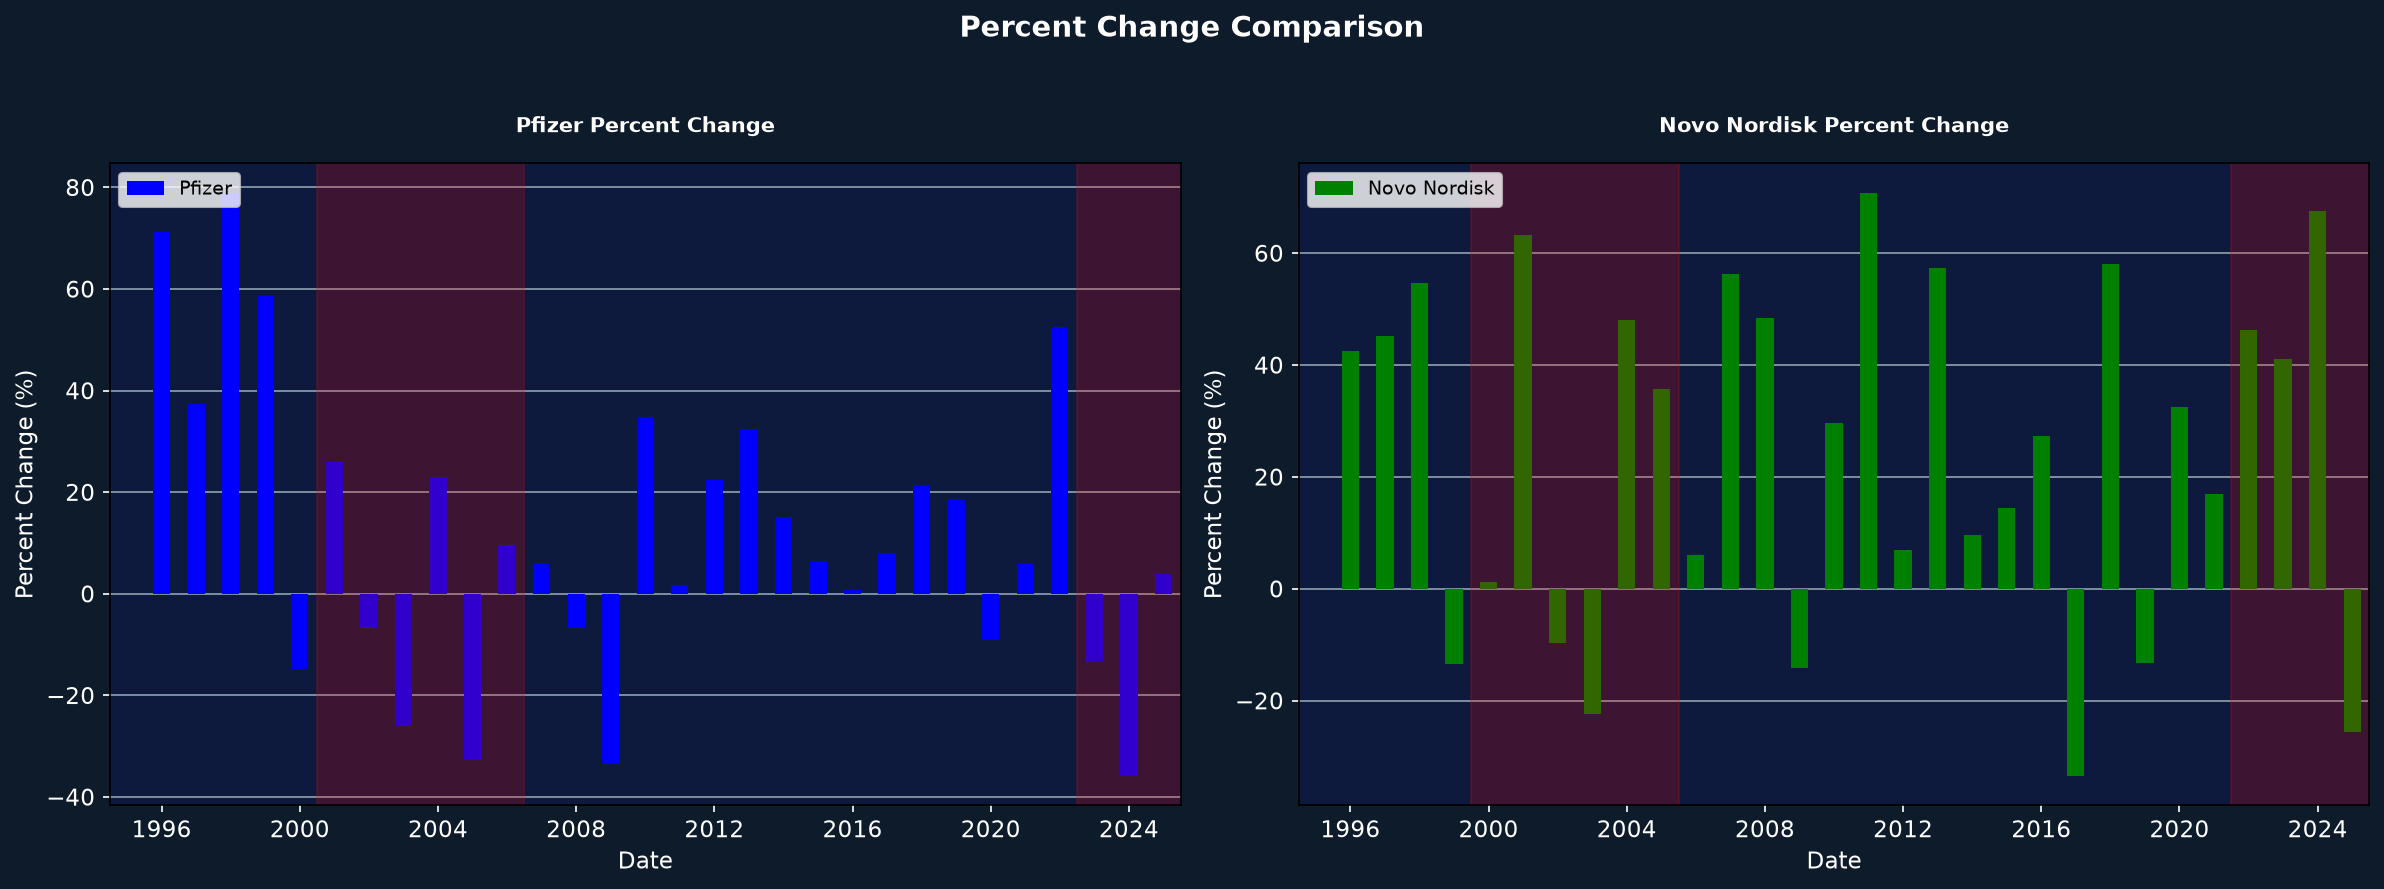
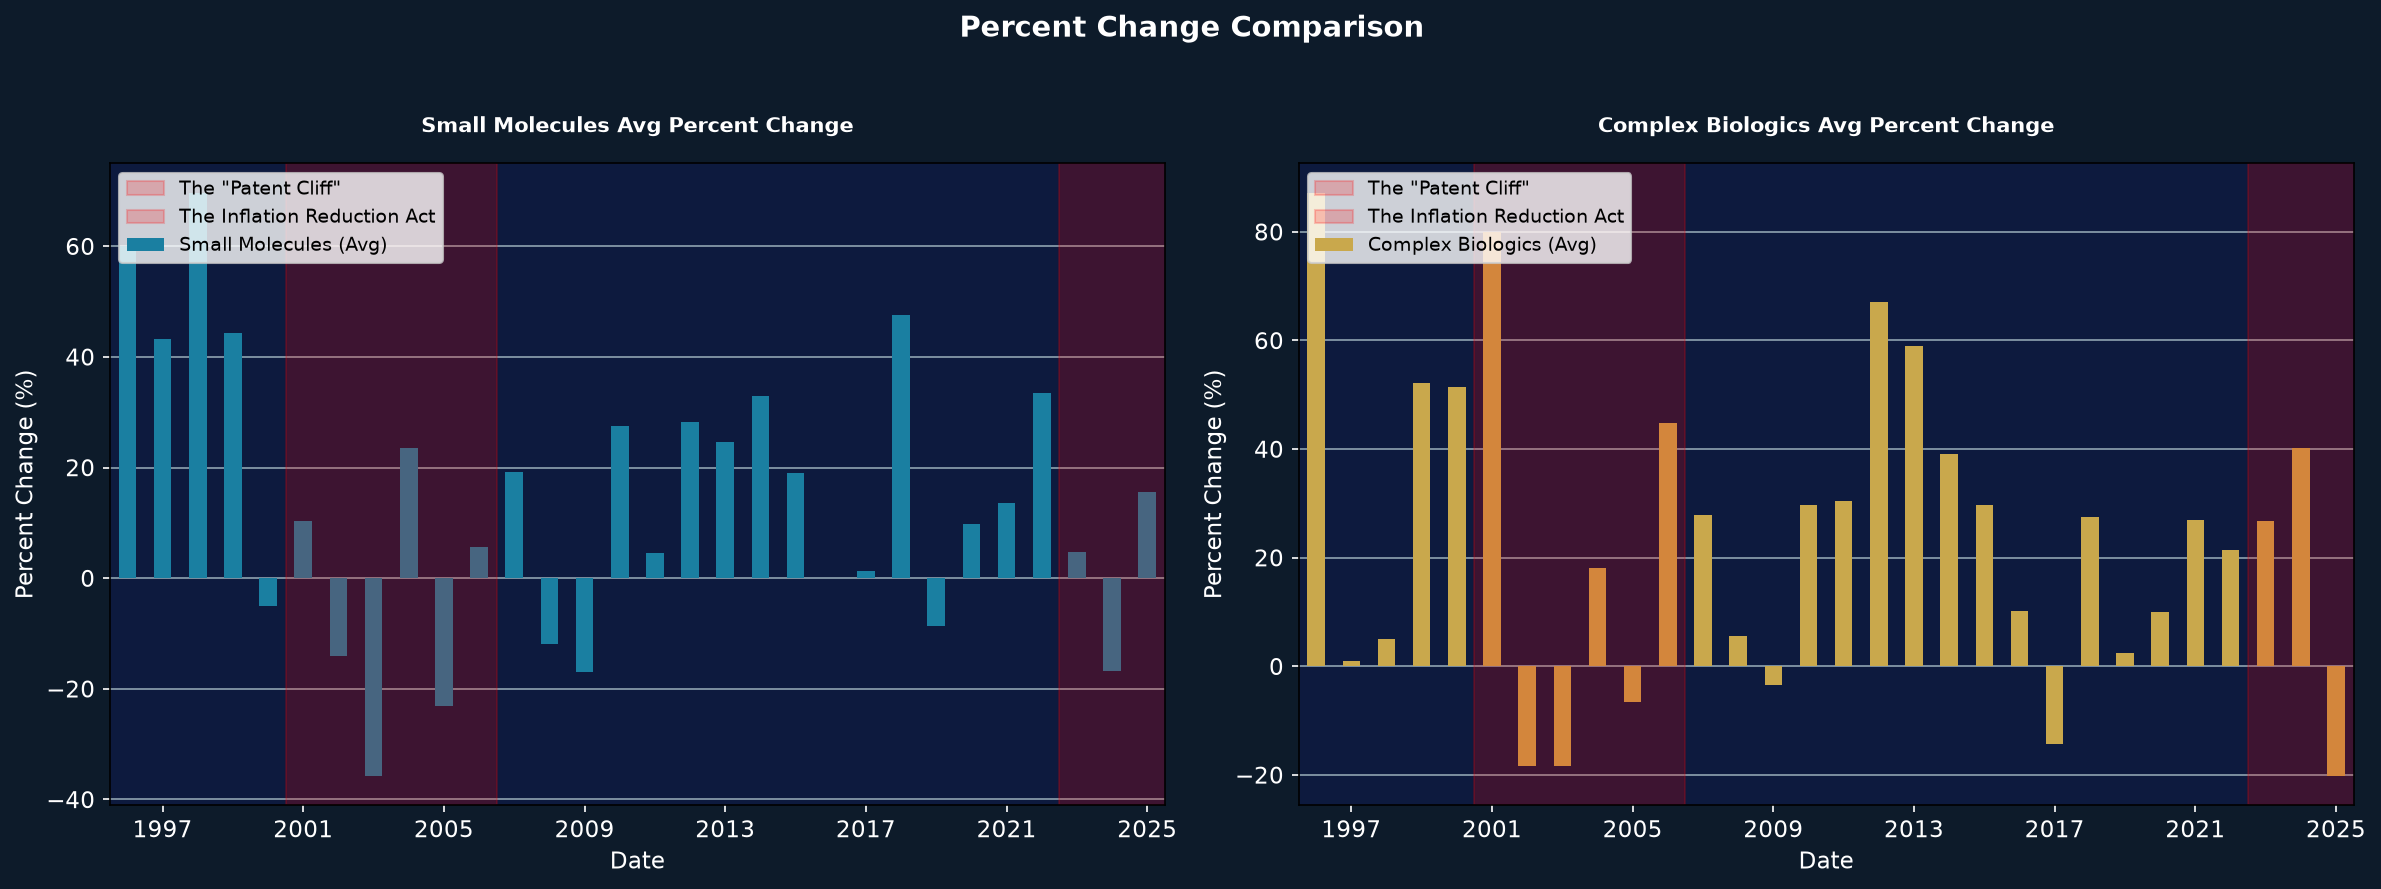
Really just needs a summary doc now

diff --git a/test2.py b/test2.py
@@ -72,74 +72,95 @@ def small_molecule_graph():
     #plt.show()
 
 
-def percent_change_graph():
-    # Load data for Bristol-Myers Squibb (BMY)
-    pfizer = yf.Ticker("PFE")
-    pfizer_monthly_data = pfizer.history(start="1995-01-01", end="2026-01-01", interval="1mo")
-    pfizer_yearly = pfizer_monthly_data[pfizer_monthly_data.index.month == 1].copy()
-    pfizer_yearly["Percent_change"] = pfizer_yearly["Close"].pct_change() * 100
-    pfizer_clean = pfizer_yearly.reset_index()
-    pfizer_clean['Date'] = pfizer_clean['Date'].dt.strftime('%Y')
+def get_subsector_pct_change(tickers):
+    pct_changes = {}
+    for ticker in tickers:
+        t = yf.Ticker(ticker)
+        df = t.history(start="1995-01-01", end="2026-01-01", interval="1mo")
+        if not df.empty:
+            df.index = df.index.tz_localize(None)
+            jan_data = df[df.index.month == 1].copy()
+            jan_data["Percent_change"] = jan_data["Close"].pct_change() * 100
+            jan_data.index = jan_data.index.strftime('%Y')
+            pct_changes[ticker] = jan_data["Percent_change"]
+            
+    pct_df = pd.DataFrame(pct_changes)
+    avg_change = pct_df.mean(axis=1)
+    
+    clean_df = avg_change.reset_index()
+    clean_df.columns = ['Date', 'Percent_change']
+    clean_df = clean_df.dropna(subset=['Percent_change']).reset_index(drop=True)
+    return clean_df
 
-    # Load data for Novo Nordisk (NVO)
-    novo_nordisk = yf.Ticker("NVO")
-    nn_monthly_data = novo_nordisk.history(start="1995-01-01", end="2026-01-01", interval="1mo")
-    nn_yearly = nn_monthly_data[nn_monthly_data.index.month == 1].copy()
-    nn_yearly["Percent_change"] = nn_yearly["Close"].pct_change() * 100
-    nn_clean = nn_yearly.reset_index()
-    nn_clean['Date'] = nn_clean['Date'].dt.strftime('%Y')
+def percent_change_graph():
+    # Load subsector baskets
+    small_molecule_tickers = ["BMY", "PFE", "ABBV"]
+    complex_biologics_tickers = ["AMGN", "REGN", "NVO"]
+    
+    sm_clean = get_subsector_pct_change(small_molecule_tickers)
+    cb_clean = get_subsector_pct_change(complex_biologics_tickers)
 
     # Create figure and 2 side-by-side subplots
     fig, (ax1, ax2) = plt.subplots(1, 2, figsize=(16, 6), facecolor=NAVY)
     
-    # --- Plot 1: Pfizer ---
-    pfizer_clean.plot.bar(x='Date', y='Percent_change', color='blue', label="Pfizer", ax=ax1)
-    #print(pfizer_clean.tail(10))
+    # Helper to find year index
+    def get_year_idx(df, year_str):
+        indices = df[df['Date'] == year_str].index
+        if len(indices) > 0:
+            return indices[0]
+        return None
+
+    # --- Plot 1: Small Molecules ---
+    sm_clean.plot.bar(x='Date', y='Percent_change', color=TEAL, label="Small Molecules (Avg)", ax=ax1)
     # Visual config for subplot 1
     ax1.grid(axis='y', linestyle='-', alpha=1.0, color=SLATE)
     ax1.set_axisbelow(True)
-    ax1.legend(loc='upper left', framealpha=0.8, fontsize=9)
-    ax1.set_title("Pfizer Percent Change", fontsize=10, fontweight='bold', pad=15, color='white')
+    ax1.set_title("Small Molecules Avg Percent Change", fontsize=10, fontweight='bold', pad=15, color='white')
     ax1.tick_params(axis='both', colors='white', labelsize=11)
-    ax1.set_xticks(range(1, len(pfizer_clean), 4))
-    ax1.set_xticklabels(pfizer_clean['Date'].iloc[1::4], rotation=0)
+    ax1.set_xticks(range(1, len(sm_clean), 4))
+    ax1.set_xticklabels(sm_clean['Date'].iloc[1::4], rotation=0)
     ax1.set_facecolor(navy_opaque)
     ax1.set_xlabel("Date", color='white', fontsize=11)
     ax1.set_ylabel("Percent Change (%)", color='white', fontsize=11)
 
     # Highlights for subplot 1
-    idx_2000_1 = pfizer_clean[pfizer_clean['Date'] == '2000'].index[0]
-    idx_2005_1 = pfizer_clean[pfizer_clean['Date'] == '2005'].index[0]
-    ax1.axvspan(idx_2000_1 + 0.5, idx_2005_1 + 1.5, color='red', alpha=0.2, label='The "Patent Cliff"')
+    idx_2000_1 = get_year_idx(sm_clean, '2000')
+    idx_2005_1 = get_year_idx(sm_clean, '2005')
+    if idx_2000_1 is not None and idx_2005_1 is not None:
+        ax1.axvspan(idx_2000_1 + 0.5, idx_2005_1 + 1.5, color='red', alpha=0.2, label='The "Patent Cliff"')
 
-    idx_2022_1 = pfizer_clean[pfizer_clean['Date'] == '2022'].index[0]
-    idx_2025_1 = pfizer_clean[pfizer_clean['Date'] == '2025'].index[0]
-    ax1.axvspan(idx_2022_1 + 0.5, idx_2025_1 + 1.5, color='red', alpha=0.2, label='The Inflation Reduction Act')
+    idx_2022_1 = get_year_idx(sm_clean, '2022')
+    idx_2025_1 = get_year_idx(sm_clean, '2025')
+    if idx_2022_1 is not None and idx_2025_1 is not None:
+        ax1.axvspan(idx_2022_1 + 0.5, idx_2025_1 + 1.5, color='red', alpha=0.2, label='The Inflation Reduction Act')
+    ax1.legend(loc='upper left', framealpha=0.8, fontsize=9)
 
-
-    # --- Plot 2: Novo Nordisk ---
-    nn_clean.plot.bar(x='Date', y='Percent_change', color='green', label="Novo Nordisk", ax=ax2)
+    # --- Plot 2: Complex Biologics ---
+    cb_clean.plot.bar(x='Date', y='Percent_change', color=GOLD, label="Complex Biologics (Avg)", ax=ax2)
 
     # Visual config for subplot 2
     ax2.grid(axis='y', linestyle='-', alpha=1.0, color=SLATE)
     ax2.set_axisbelow(True)
-    ax2.legend(loc='upper left', framealpha=0.8, fontsize=9)
-    ax2.set_title("Novo Nordisk Percent Change", fontsize=10, fontweight='bold', pad=15, color='white')
+    ax2.set_title("Complex Biologics Avg Percent Change", fontsize=10, fontweight='bold', pad=15, color='white')
     ax2.tick_params(axis='both', colors='white', labelsize=11)
-    ax2.set_xticks(range(1, len(nn_clean), 4))
-    ax2.set_xticklabels(nn_clean['Date'].iloc[1::4], rotation=0)
+    ax2.set_xticks(range(1, len(cb_clean), 4))
+    ax2.set_xticklabels(cb_clean['Date'].iloc[1::4], rotation=0)
     ax2.set_facecolor(navy_opaque)
     ax2.set_xlabel("Date", color='white', fontsize=11)
     ax2.set_ylabel("Percent Change (%)", color='white', fontsize=11)
 
     # Highlights for subplot 2
-    idx_2000_2 = nn_clean[nn_clean['Date'] == '2000'].index[0]
-    idx_2005_2 = nn_clean[nn_clean['Date'] == '2005'].index[0]
-    ax2.axvspan(idx_2000_2 - 0.5, idx_2005_2 + 0.5, color='red', alpha=0.2, label='The "Patent Cliff"')
+    idx_2000_2 = get_year_idx(cb_clean, '2000')
+    idx_2005_2 = get_year_idx(cb_clean, '2005')
+    if idx_2000_2 is not None and idx_2005_2 is not None:
+        ax2.axvspan(idx_2000_2 + 0.5, idx_2005_2 + 1.5, color='red', alpha=0.2, label='The "Patent Cliff"')
 
-    idx_2022_2 = nn_clean[nn_clean['Date'] == '2022'].index[0]
-    idx_2025_2 = nn_clean[nn_clean['Date'] == '2025'].index[0]
-    ax2.axvspan(idx_2022_2 - 0.5, idx_2025_2 + 0.5, color='red', alpha=0.2, label='The Inflation Reduction Act')
+    idx_2022_2 = get_year_idx(cb_clean, '2022')
+    idx_2025_2 = get_year_idx(cb_clean, '2025')
+    if idx_2022_2 is not None and idx_2025_2 is not None:
+        ax2.axvspan(idx_2022_2 + 0.5, idx_2025_2 + 1.5, color='red', alpha=0.2, label='The Inflation Reduction Act')
+    ax2.legend(loc='upper left', framealpha=0.8, fontsize=9)
+
     fig.suptitle("Percent Change Comparison", fontsize=14, fontweight='bold', color='white')
     plt.tight_layout(rect=[0, 0, 1, 0.95])
     plt.savefig('charts/percent_change_bar.png', dpi=150, bbox_inches="tight")
@@ -188,14 +209,100 @@ def complex_biologics_graph():
 
     plt.tight_layout()
     plt.savefig('charts/complex_biologics.png', dpi=150, bbox_inches="tight")
-    plt.show() 
+    # plt.show() 
+
+def create_correlation_graph():
+    tickers = ["BMY", "PFE", "ABBV", "AMGN", "REGN", "NVO"]
+    
+    data = {}
+    for ticker in tickers:
+        t = yf.Ticker(ticker)
+        df = t.history(start="2000-01-01", end="2026-01-01", interval="1mo")
+        if not df.empty:
+            data[ticker] = df["Close"]
+            
+    price_df = pd.DataFrame(data)
+    if price_df.empty:
+        print("Error: No price data downloaded.")
+        return
+        
+    price_df.index = price_df.index.tz_localize(None)
+    
+    # Period 1: Patent Cliff (2000-01-01 to 2005-12-31)
+    p1_df = price_df.loc["2000-01-01":"2005-12-31"].copy()
+    p1_df.dropna(how='all', axis=1, inplace=True)
+    
+    p1_norm = p1_df.copy()
+    for col in p1_norm.columns:
+        first_val = p1_norm[col].dropna()
+        if not first_val.empty:
+            p1_norm[col] = (p1_norm[col] / first_val.iloc[0]) * 100
+            
+    p1_small = [t for t in ["BMY", "PFE", "ABBV"] if t in p1_norm.columns]
+    p1_complex = [t for t in ["AMGN", "REGN", "NVO"] if t in p1_norm.columns]
+    
+    p1_small_avg = p1_norm[p1_small].mean(axis=1)
+    p1_complex_avg = p1_norm[p1_complex].mean(axis=1)
+    p1_corr = p1_small_avg.corr(p1_complex_avg)
+    
+    # Period 2: Inflation Reduction Act (2022-07-01 to 2025-01-01)
+    p2_df = price_df.loc["2022-07-01":"2025-01-01"].copy()
+    p2_df.dropna(how='all', axis=1, inplace=True)
+    
+    p2_norm = p2_df.copy()
+    for col in p2_norm.columns:
+        first_val = p2_norm[col].dropna()
+        if not first_val.empty:
+            p2_norm[col] = (p2_norm[col] / first_val.iloc[0]) * 100
+            
+    p2_small = [t for t in ["BMY", "PFE", "ABBV"] if t in p2_norm.columns]
+    p2_complex = [t for t in ["AMGN", "REGN", "NVO"] if t in p2_norm.columns]
+    
+    p2_small_avg = p2_norm[p2_small].mean(axis=1)
+    p2_complex_avg = p2_norm[p2_complex].mean(axis=1)
+    p2_corr = p2_small_avg.corr(p2_complex_avg)
+    
+    # Create the figure
+    fig, (ax1, ax2) = plt.subplots(1, 2, figsize=(16, 6), facecolor=NAVY)
+    
+    # Plot Period 1
+    ax1.plot(p1_small_avg.index, p1_small_avg, color=TEAL, linewidth=2, label="Small Molecules Avg")
+    ax1.plot(p1_complex_avg.index, p1_complex_avg, color=GOLD, linewidth=2, label="Complex Biologics Avg")
+    ax1.grid(axis='y', linestyle='-', alpha=1.0, color=SLATE)
+    ax1.set_axisbelow(True)
+    ax1.legend(loc='upper left', framealpha=0.8, fontsize=9)
+    ax1.set_title(f"The 'Patent Cliff' (2000–2005)\nCorrelation: {p1_corr:+.2f}", fontsize=11, fontweight='bold', pad=15, color='white')
+    ax1.tick_params(axis='both', colors='white', labelsize=10)
+    ax1.set_facecolor(navy_opaque)
+    ax1.set_xlabel("Date", color='white', fontsize=11)
+    ax1.set_ylabel("Normalized Price Index (Start = 100)", color='white', fontsize=11)
+    
+    # Plot Period 2
+    ax2.plot(p2_small_avg.index, p2_small_avg, color=TEAL, linewidth=2, label="Small Molecules Avg")
+    ax2.plot(p2_complex_avg.index, p2_complex_avg, color=GOLD, linewidth=2, label="Complex Biologics Avg")
+    ax2.grid(axis='y', linestyle='-', alpha=1.0, color=SLATE)
+    ax2.set_axisbelow(True)
+    ax2.legend(loc='upper left', framealpha=0.8, fontsize=9)
+    ax2.set_title(f"The Inflation Reduction Act (2022–2025)\nCorrelation: {p2_corr:+.2f}", fontsize=11, fontweight='bold', pad=15, color='white')
+    ax2.tick_params(axis='both', colors='white', labelsize=10)
+    ax2.set_facecolor(navy_opaque)
+    ax2.set_xlabel("Date", color='white', fontsize=11)
+    ax2.set_ylabel("Normalized Price Index (Start = 100)", color='white', fontsize=11)
+    
+    fig.suptitle("Subsector Correlation & Average Movement During Turmoil", fontsize=14, fontweight='bold', color='white')
+    fig.autofmt_xdate()
+    plt.tight_layout(rect=[0, 0, 1, 0.95])
+    plt.savefig('charts/correlation_graph.png', dpi=150, bbox_inches="tight")
+    plt.close(fig)
 
 def main():
     small_molecule_graph()
     percent_change_graph()
     complex_biologics_graph()
+    create_correlation_graph()
 
 main()
+
 
 # #I assume I want something that shows percentage change
 